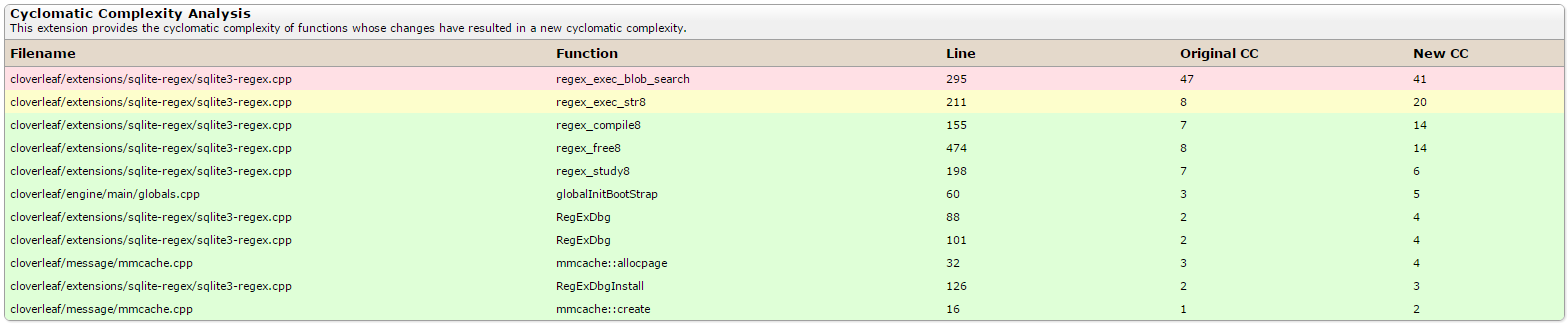
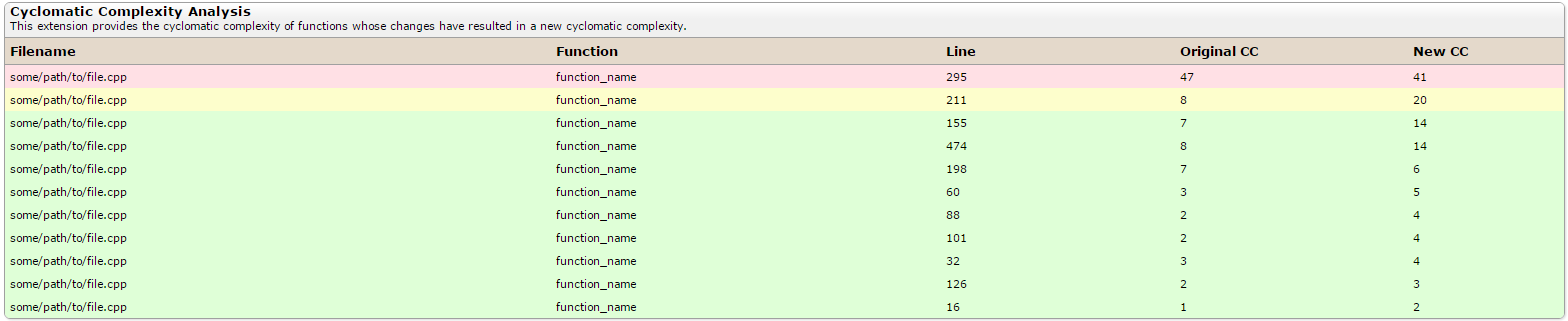
Update generic screenshot

diff --git a/build/lib/cc_counter/templates/cc_counter/reviewrequest_recent_cc.html b/build/lib/cc_counter/templates/cc_counter/reviewrequest_recent_cc.html
@@ -104,8 +104,8 @@
 			{% else %}
 				<tr class="low-cc">
 			{% endif %}
-					<td class="filename">{{ function.0 }}</td>
-					<td>{{ function.1 }}</td>
+					<td class="filename">some/path/to/file.cpp</td>
+					<td>function_name</td>
 					<td>{{ function.2 }}</td>
 					{% if function.3 == None %}
 					<td>n/a</td>

diff --git a/cc_counter/templates/cc_counter/reviewrequest_recent_cc.html b/cc_counter/templates/cc_counter/reviewrequest_recent_cc.html
@@ -104,8 +104,8 @@
 			{% else %}
 				<tr class="low-cc">
 			{% endif %}
-					<td class="filename">{{ function.0 }}</td>
-					<td>{{ function.1 }}</td>
+					<td class="filename">some/path/to/file.cpp</td>
+					<td>function_name</td>
 					<td>{{ function.2 }}</td>
 					{% if function.3 == None %}
 					<td>n/a</td>
